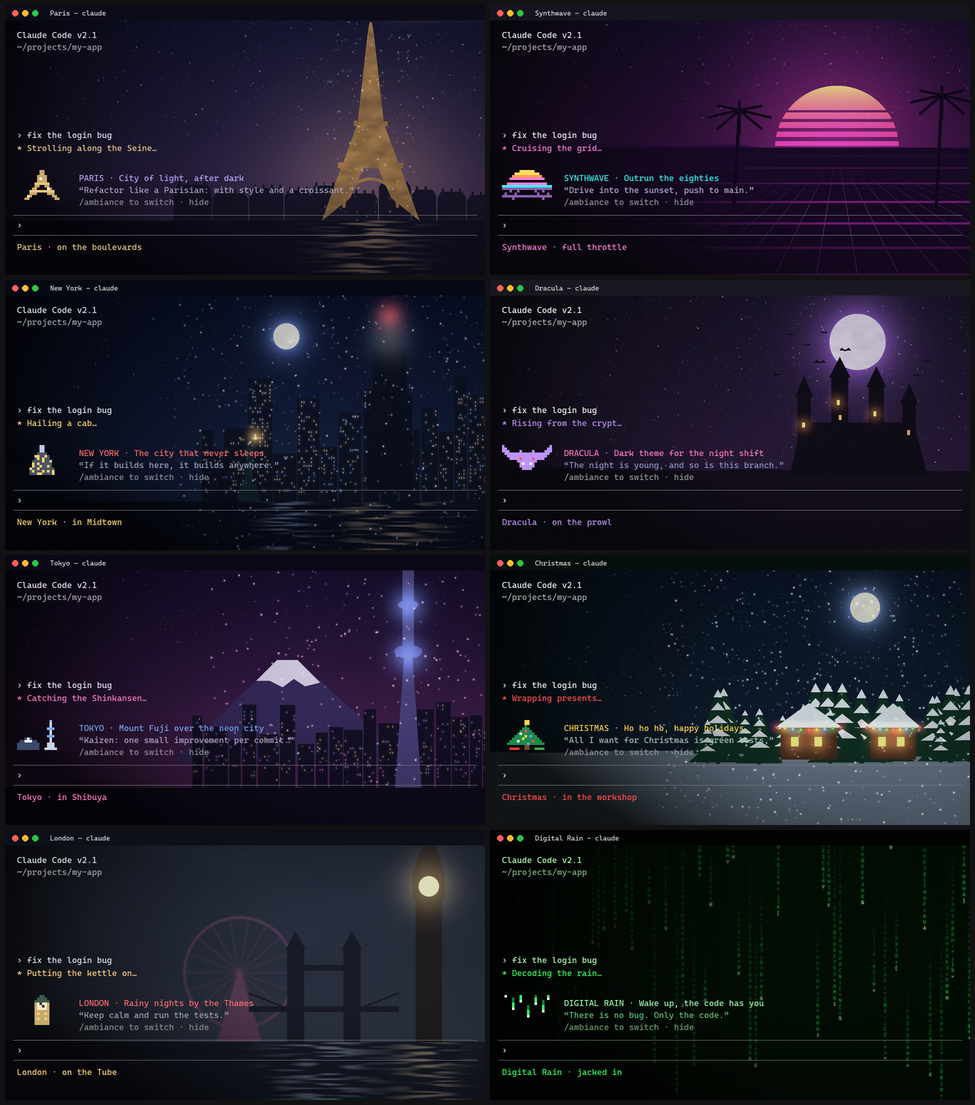
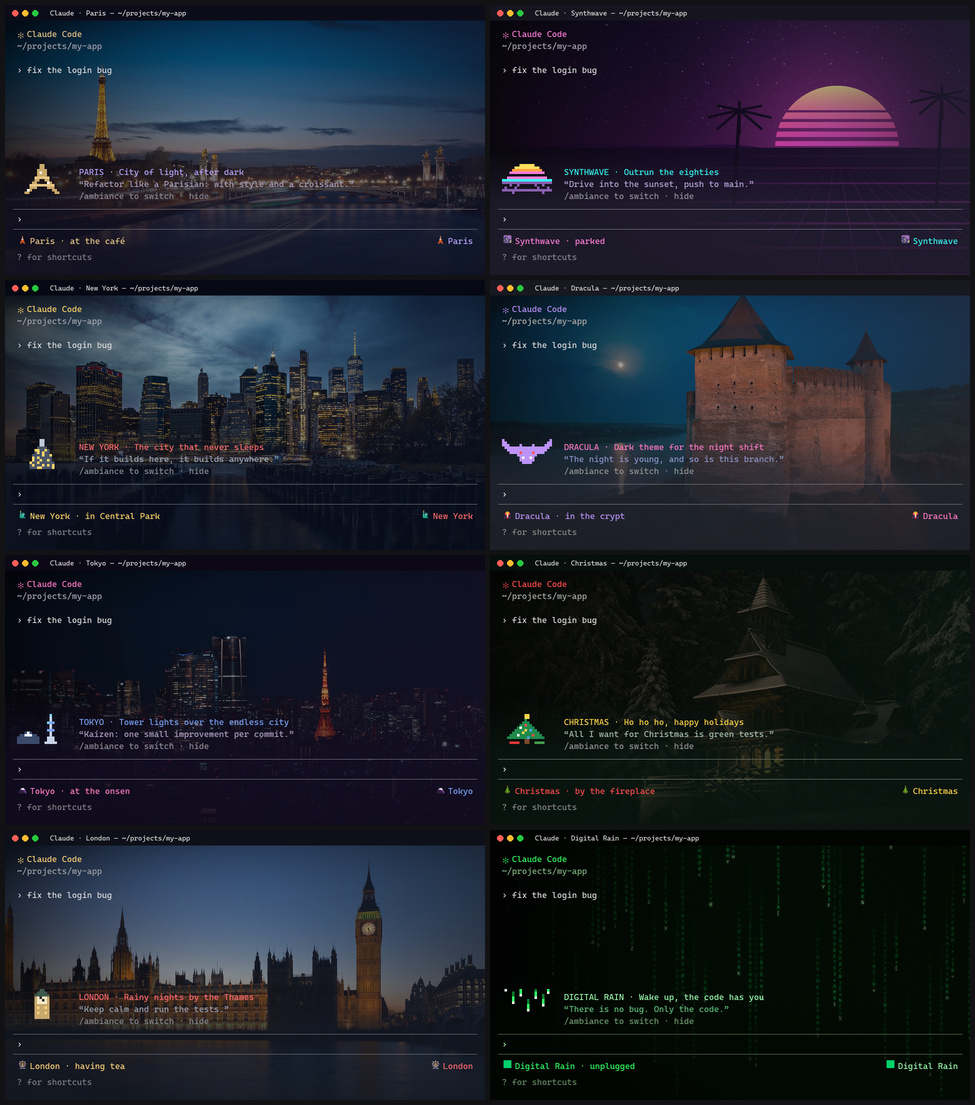
Refresh the demo GIF: /ambiance switches and test moods
The demo now shows what the README promises: themes switched by typing
/ambiance, the session label in the footer, and Dracula turning angry on
a failing test run, then proud when it passes. Each theme segment uses
one palette, so the GIF only stores what moves and stays under 2 MB at
960 × 540.

diff --git a/scripts/art/demo_gif.py b/scripts/art/demo_gif.py
@@ -1,29 +1,39 @@
-"""Builds docs/demo.gif and docs/showcase.png: a Claude Code terminal
-switching from theme to theme (wallpaper, animated pixel art, banner, status line).
+"""Builds docs/demo.gif and docs/showcase.png: a Claude Code session that
+switches from theme to theme with /ambiance, and reacts to a failing then a
+passing test run (wallpaper, animated pixel art, banner, status line, label).
 
 Usage: python scripts/art/demo_gif.py
 """
 import json
 from pathlib import Path
 
-from PIL import Image, ImageDraw, ImageFont
+from PIL import Image, ImageChops, ImageDraw, ImageFont
 
 ROOT = Path(__file__).resolve().parents[2]
 THEMES = ROOT / "plugin" / "themes"
 DOCS = ROOT / "docs"
 SIZE = (960, 540)
-ORDER = ["paris", "synthwave", "new-york", "dracula", "tokyo", "christmas", "london", "digital-rain"]
+# The GIF's story: each theme switches to the next one; Dracula runs the tests.
+ORDER = ["paris", "synthwave", "dracula", "tokyo", "christmas", "digital-rain"]
+MOOD_THEME = "dracula"
+SHOWCASE = ["paris", "synthwave", "new-york", "dracula", "tokyo", "christmas", "london", "digital-rain"]
+FONTS = [Path("C:/Windows/Fonts"), Path("/usr/share/fonts/truetype/dejavu"), Path("/System/Library/Fonts"), Path("/Library/Fonts")]
 
 
-def font(size):
-    for name in ("CascadiaMono.ttf", "consola.ttf", "DejaVuSansMono.ttf", "Menlo.ttc"):
-        for folder in (Path("C:/Windows/Fonts"), Path("/usr/share/fonts/truetype/dejavu"), Path("/System/Library/Fonts")):
+def font(names, size):
+    for name in names:
+        for folder in FONTS:
             if (folder / name).exists():
                 return ImageFont.truetype(str(folder / name), size)
-    return ImageFont.load_default()
+    return None
 
 
-MONO, SMALL = font(17), font(14)
+MONO = font(["CascadiaMono.ttf", "consola.ttf", "DejaVuSansMono.ttf", "Menlo.ttc"], 17) or ImageFont.load_default()
+SMALL = font(["CascadiaMono.ttf", "consola.ttf", "DejaVuSansMono.ttf", "Menlo.ttc"], 14) or ImageFont.load_default()
+# Glyphs that coding fonts often lack, and color emoji (both optional).
+SYMBOL = font(["seguisym.ttf", "DejaVuSans.ttf", "Apple Symbols.ttf"], 17) or MONO
+EMOJI = font(["seguiemj.ttf", "NotoColorEmoji.ttf", "Apple Color Emoji.ttc"], 16)
+SYMBOLS = set("✻✗✓●")
 
 
 def hex_rgb(value):
@@ -31,71 +41,156 @@ def hex_rgb(value):
     return tuple(int(value[i : i + 2], 16) for i in (0, 2, 4))
 
 
-def terminal(theme, wallpaper, frame_index, verb_index):
-    term = theme["terminal"]
-    image = Image.new("RGB", SIZE, hex_rgb(term["background"]))
-    opacity = term.get("effects", {}).get("backgroundImageOpacity", 0.85)
-    image = Image.blend(image, wallpaper, opacity)
+def dim(color, factor):
+    return tuple(int(c * factor) for c in color)
+
+
+def write(draw, x, y, text, fill, emoji=""):
+    """Draws `emoji` (color) then `text` (mono, symbols from a fallback font). Returns the end x."""
+    if emoji and EMOJI is not None:
+        draw.text((x, y + 1), emoji, font=EMOJI, embedded_color=True)
+        x += 26
+    for char in text:
+        face = SYMBOL if char in SYMBOLS else MONO
+        draw.text((x, y), char, font=face, fill=fill)
+        x += MONO.getlength("m")
+    return x
+
+
+def width(text, emoji=""):
+    return len(text) * MONO.getlength("m") + (26 if emoji and EMOJI is not None else 0)
+
+
+class Theme:
+    def __init__(self, theme_id):
+        self.data = json.loads((THEMES / theme_id / "theme.json").read_text(encoding="utf-8"))
+        term = self.data["terminal"]
+        self.bg = hex_rgb(term["background"])
+        self.fg = hex_rgb(term["foreground"])
+        self.colors = {k: hex_rgb(v) for k, v in self.data["colors"].items()}
+        self.red, self.green = hex_rgb(term["brightRed"]), hex_rgb(term["brightGreen"])
+        wallpaper = Image.open(THEMES / theme_id / term["effects"]["backgroundImage"]).convert("RGB").resize(SIZE, Image.LANCZOS)
+        self.base = Image.blend(Image.new("RGB", SIZE, self.bg), wallpaper, term["effects"].get("backgroundImageOpacity", 0.85))
+        # Darker on the left and under the prompt, where the text goes.
+        shade = Image.linear_gradient("L").rotate(90, expand=True).resize(SIZE)
+        shade = shade.point(lambda v: int(150 * max(0.0, (v / 255 - 0.3) / 0.7) ** 1.4))
+        footer = Image.linear_gradient("L").resize(SIZE).point(lambda v: int(170 * min(1.0, max(0.0, (v / 255 - 0.52) / 0.22))))
+        mask = ImageChops.lighter(shade, footer)
+        self.base = Image.composite(Image.new("RGB", SIZE, self.bg), self.base, mask)
+        draw = ImageDraw.Draw(self.base)
+        draw.rectangle([0, 0, SIZE[0], 30], fill=dim(self.bg, 0.6))
+        for i, color in enumerate(((255, 95, 87), (254, 188, 46), (40, 200, 64))):
+            draw.ellipse([14 + i * 20, 10, 26 + i * 20, 22], fill=color)
+        draw.text((90, 8), f"Claude · {self.data['name']} — ~/projects/my-app", font=SMALL, fill=(220, 220, 220))
+
+    def __getitem__(self, key):
+        return self.data[key]
+
+    def frames(self, mood):
+        spec = self.data.get("moods", {}).get(mood, {})
+        return spec.get("frames") or self.data["pixelArt"]["frames"]
+
+
+def render(theme, tick, mood="idle", lines=(), prompt="", quote_index=0, working=False):
+    """One frame of the session: transcript `lines` ([(text, color)]), banner, prompt and status line."""
+    image = theme.base.copy()
     draw = ImageDraw.Draw(image)
+    write(draw, 24, 48, "✻ Claude Code", theme.colors["accent"])
+    write(draw, 24, 72, "~/projects/my-app", dim(theme.fg, 0.7))
+    for i, (text, color) in enumerate(lines):
+        write(draw, 24, 120 + i * 26, text, color)
 
-    # Window bar.
-    draw.rectangle([0, 0, SIZE[0], 30], fill=tuple(int(c * 0.6) for c in hex_rgb(term["background"])))
-    for i, color in enumerate(((255, 95, 87), (254, 188, 46), (40, 200, 64))):
-        draw.ellipse([14 + i * 20, 10, 26 + i * 20, 22], fill=color)
-    draw.text((90, 8), f"{theme['emoji'] if theme['emoji'].isascii() else ''}{theme['name']} — claude", font=SMALL, fill=(220, 220, 220))
+    # The banner above the prompt: pixel art, title and the mood's quote.
+    art = theme["pixelArt"]
+    frames = theme.frames(mood)
+    frame = frames[tick % len(frames)]
+    top, scale = 318, 5
+    for y, row in enumerate(frame):
+        for x, key in enumerate(row):
+            color = art["palette"].get(key)
+            if color:
+                draw.rectangle([24 + x * scale, top + y * scale, 24 + (x + 1) * scale - 1, top + (y + 1) * scale - 1], fill=hex_rgb(color))
+    left = 24 + len(frame[0]) * scale + 24
+    write(draw, left, top + 6, f"{theme['name'].upper()} · {theme['tagline']}"[:70], theme.colors["secondary"])
+    spec = theme["moods"].get(mood, {}) if mood != "idle" else {}
+    quotes = spec.get("quotes") or theme["quotes"]
+    quote = quotes[quote_index % len(quotes)]
+    write(draw, left, top + 30, f"“{quote[:60] + '…' if len(quote) > 62 else quote}”", theme.colors["muted"])
+    write(draw, left, top + 54, "/ambiance to switch · hide", dim(theme.fg, 0.6))
 
-    fg = hex_rgb(term["foreground"])
-    colors = {k: hex_rgb(v) for k, v in theme["colors"].items()}
-    draw.text((24, 50), "Claude Code v2.1", font=MONO, fill=fg)
-    draw.text((24, 74), "~/projects/my-app", font=MONO, fill=tuple(int(c * 0.7) for c in fg))
-
-    # Banner: animated pixel art, title, quote.
-    art = theme.get("pixelArt")
-    top = 330
-    if art:
-        frame = art["frames"][frame_index % len(art["frames"])]
-        scale = 5
-        for y, row in enumerate(frame):
-            for x, key in enumerate(row):
-                color = art["palette"].get(key)
-                if color:
-                    draw.rectangle([24 + x * scale, top + y * scale, 24 + (x + 1) * scale - 1, top + (y + 1) * scale - 1], fill=hex_rgb(color))
-    left = 24 + 20 * 5 + 24
-    title = f"{theme['name'].upper()} · {theme.get('tagline', '')}"
-    draw.text((left, top + 6), title, font=MONO, fill=colors["secondary"])
-    quote = theme["quotes"][verb_index % len(theme["quotes"])]
-    if len(quote) > 62:
-        quote = quote[:60] + "…"
-    draw.text((left, top + 30), f"“{quote}”", font=MONO, fill=colors["muted"])
-    draw.text((left, top + 54), "/ambiance to switch · hide", font=MONO, fill=tuple(int(c * 0.6) for c in fg))
-
-    verbs = theme.get("spinnerVerbs", ["Thinking"])
-    draw.text((24, 250), "› fix the login bug", font=MONO, fill=fg)
-    draw.text((24, 276), f"* {verbs[verb_index % len(verbs)]}…", font=MONO, fill=colors["accent"])
-
-    draw.line([(16, 420), (SIZE[0] - 16, 420)], fill=tuple(int(c * 0.5) for c in fg), width=1)
-    draw.text((24, 430), "› ", font=MONO, fill=fg)
-    draw.line([(16, 460), (SIZE[0] - 16, 460)], fill=tuple(int(c * 0.5) for c in fg), width=1)
-    status = theme.get("status", {}).get("working", "working")
-    draw.text((24, 474), f"{theme['name']} · {status}", font=MONO, fill=colors["accent"])
+    # The prompt, then the status line and the session label in the footer.
+    draw.line([(16, 408), (SIZE[0] - 16, 408)], fill=dim(theme.fg, 0.5), width=1)
+    end = write(draw, 24, 418, f"› {prompt}", theme.fg)
+    if prompt and tick % 2 == 0:
+        draw.rectangle([end + 1, 420, end + 9, 437], fill=theme.fg)
+    draw.line([(16, 448), (SIZE[0] - 16, 448)], fill=dim(theme.fg, 0.5), width=1)
+    status = spec.get("status") or theme["status"]["working" if working else "idle"]
+    color = {"error": theme.red, "success": theme.green}.get(mood, theme.colors["accent"])
+    write(draw, 24, 462, f"{theme['name']} · {status}", color, emoji=theme["emoji"])
+    label = theme["name"]
+    write(draw, SIZE[0] - 24 - width(label, theme["emoji"]), 462, label, theme.colors["secondary"], emoji=theme["emoji"])
+    write(draw, 24, 494, "? for shortcuts", dim(theme.fg, 0.55))
     return image
 
 
+def segment(theme, next_id):
+    """The frames of one theme, as (image, duration in ms)."""
+    out = []
+    verbs = theme["spinnerVerbs"]
+    ask = [("› fix the login bug", theme.fg)]
+    for i in range(6):
+        out.append((render(theme, i, lines=ask + [(f"✻ {verbs[i // 3 % len(verbs)]}…", theme.colors["accent"])], working=True), 250))
+    done = ask + [("● Fixed: the session token was read before refresh.", theme.fg)]
+
+    if theme["id"] == MOOD_THEME:
+        run = done + [("› run the tests", theme.fg), ("● Bash(npm test)", theme.fg)]
+        failed = run + [("  └ ✗ 2 failed, 46 passed", theme.red)]
+        for i in range(8):
+            out.append((render(theme, i, "error", failed), 250))
+        passed = run + [("  └ ✓ 48 passed", theme.green)]
+        for i in range(6):
+            out.append((render(theme, i, "success", passed, quote_index=1), 250))
+        done = passed
+
+    for i in range(4):
+        out.append((render(theme, i, lines=done), 250))
+    command = f"/ambiance {next_id}"
+    for n in range(2, len(command) + 1, 2):
+        out.append((render(theme, n // 2, lines=done, prompt=command[:n]), 70))
+    out.append((render(theme, 0, lines=done, prompt=command), 450))
+    return out
+
+
+def gif(frames, path):
+    """Each theme gets one palette, so unchanged pixels stay identical and
+    the GIF only stores what moves."""
+    images, durations, palette, last = [], [], None, None
+    for image, duration, theme in frames:
+        if theme is not last:
+            # The small but vivid colors (window buttons, test results) get
+            # their own blocks so the palette keeps them.
+            sample = Image.new("RGB", (SIZE[0], SIZE[1] + 120))
+            sample.paste(image)
+            vivid = [(255, 95, 87), (254, 188, 46), (40, 200, 64), theme.red, theme.green, theme.fg, *theme.colors.values()]
+            for i, color in enumerate(vivid):
+                sample.paste(color, (i * 80, SIZE[1], i * 80 + 80, SIZE[1] + 120))
+            palette = sample.quantize(colors=255, method=Image.Quantize.MEDIANCUT, dither=Image.Dither.NONE)
+            last = theme
+        images.append(image.quantize(palette=palette, dither=Image.Dither.NONE))
+        durations.append(duration)
+    images[0].save(path, save_all=True, append_images=images[1:], duration=durations, loop=0, optimize=False, disposal=1)
+
+
 def main():
-    frames, durations, stills = [], [], []
-    for theme_id in ORDER:
-        theme = json.loads((THEMES / theme_id / "theme.json").read_text(encoding="utf-8"))
-        wall_path = THEMES / theme_id / theme["terminal"]["effects"]["backgroundImage"]
-        wallpaper = Image.open(wall_path).convert("RGB").resize(SIZE, Image.LANCZOS)
-        for i in range(10):
-            frames.append(terminal(theme, wallpaper, i, i // 4))
-            durations.append(250)
-        stills.append(terminal(theme, wallpaper, 0, 0))
-
+    themes = {theme_id: Theme(theme_id) for theme_id in ORDER}
+    frames = []
+    for i, theme_id in enumerate(ORDER):
+        next_id = ORDER[(i + 1) % len(ORDER)]
+        frames += [(image, duration, themes[theme_id]) for image, duration in segment(themes[theme_id], next_id)]
     DOCS.mkdir(exist_ok=True)
-    small = [f.resize((720, 405), Image.LANCZOS).quantize(colors=128, method=Image.Quantize.MEDIANCUT, dither=Image.Dither.NONE) for f in frames]
-    small[0].save(DOCS / "demo.gif", save_all=True, append_images=small[1:], duration=durations, loop=0, optimize=True)
+    gif(frames, DOCS / "demo.gif")
 
+    stills = [render(Theme(theme_id), 0, lines=[("› fix the login bug", (220, 220, 220))]) for theme_id in SHOWCASE]
     rows = (len(stills) + 1) // 2
     sheet = Image.new("RGB", (SIZE[0] * 2 + 30, (SIZE[1] + 10) * rows + 10), (18, 18, 20))
     for i, still in enumerate(stills):

diff --git a/README.md b/README.md
@@ -15,7 +15,7 @@ Colors, a session label, a status line that reacts to your tests and, if you wan
 
 <br>
 
-<img src="docs/demo.gif" alt="A Claude Code session switching from theme to theme: banner, status line and terminal colors change live" width="720">
+<img src="docs/demo.gif" alt="A Claude Code session switching themes with /ambiance: wallpaper, pixel-art banner, status line and session label change, and the theme turns angry when tests fail, then proud when they pass" width="800">
 
 </div>
 
